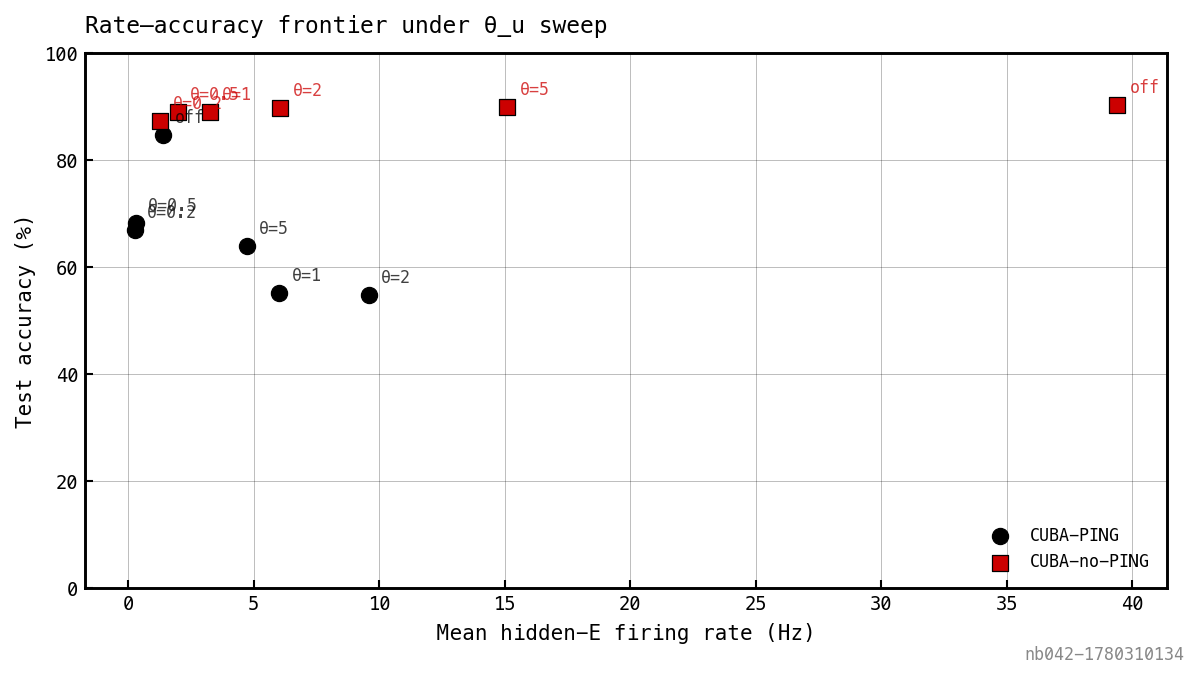
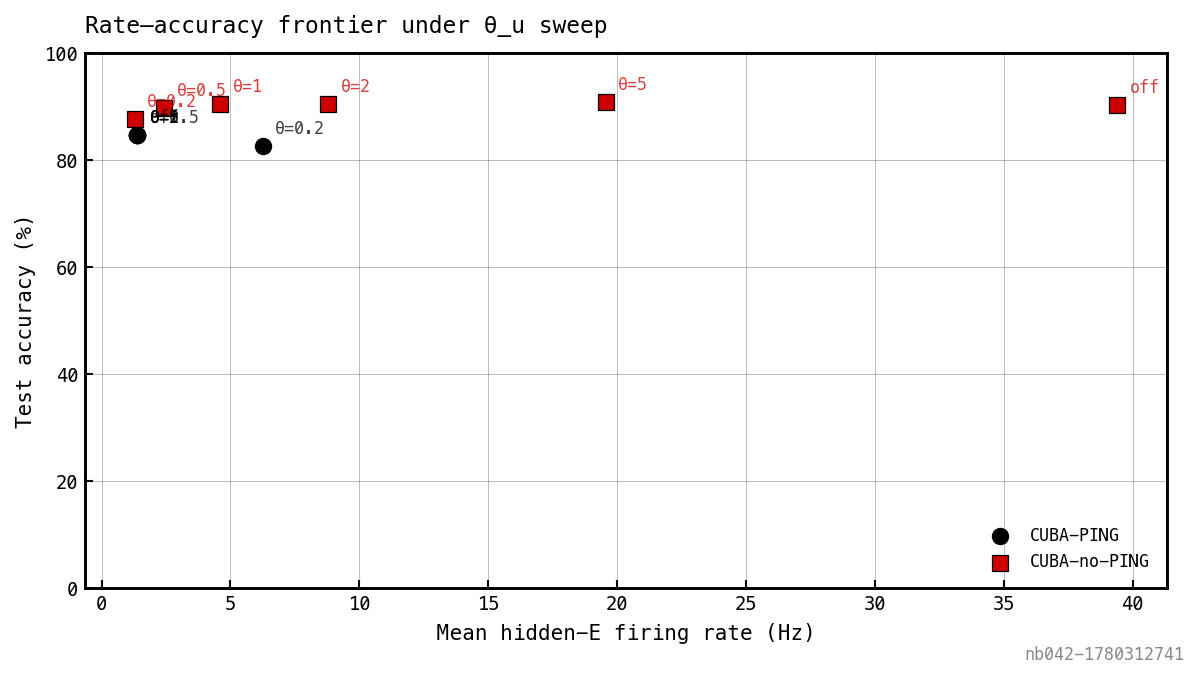
nb042: switch to population-mean penalty — clean nb035-style frontier
The per-neuron penalty (nb035/036 recipe) destabilises PING in the
instant-synapse CUBA family because PING's selective code concentrates
all the signal in the top 1% of cells, and the per-neuron formulation
preferentially crushes them. Population-mean penalty distributes
pressure uniformly and lets the architectural floor coexist with the
explicit knob.

New CLI flag --fr-reg-mode {per-neuron, population} (per-neuron is
default to preserve nb035/036 behaviour); nb042 sets population.

Modal A100 sweep, 12 cells × 40 epochs, 19 min wall-clock, ~$5.30:

PING:
- θ_u ∈ {off, 5, 2, 1, 0.5}: all 84.7% / 1.37 Hz / 39.7 Hz I (bit-
  identical — penalty term is zero, since pop mean 0.27 spk/trial sits
  below all five thresholds)
- θ_u = 0.2: 82.6% / 6.25 Hz (penalty engages below the natural floor,
  settles at a higher-rate equilibrium with a small accuracy cost)

no-PING:
- 30× rate compression (39 → 1.28 Hz) for 2.6 pp accuracy (90.4 → 87.8%)
- Smooth monotone frontier, no divergence

Reproduces the nb035 Figure 5 picture exactly: the two knobs are
substitutes, PING's architectural floor is a hard wall, the penalty
walks no-PING onto the same operating point.

mdx restructured: clean nb035-style story leads, per-neuron diagnostic
moved to a "fr-reg formulation" appendix subsection at the end.

diff --git a/src/pinglab/cli/train.py b/src/pinglab/cli/train.py
@@ -197,6 +197,7 @@ def train(
     readout_mode="rate",
     fr_reg_upper_theta=0.0,
     fr_reg_upper_strength=0.0,
+    fr_reg_mode="per-neuron",
     trainable_w_ee=False,
     tbptt_window=None,
 ):
@@ -577,12 +578,25 @@ def train(
             ) is not None:
                 reg = 0.0
                 for sc in net.last_spike_counts:
-                    mean_z = sc.mean(dim=0)
-                    reg = (
-                        reg
-                        + fr_reg_upper_strength
-                        * (torch.relu(mean_z - fr_reg_upper_theta) ** 2).sum()
-                    )
+                    if fr_reg_mode == "population":
+                        # Single scalar penalty on the grand mean across batch
+                        # and neurons; scale by n_neurons so s_u retains its
+                        # per-neuron-recipe magnitude when all cells overshoot.
+                        pop_mean = sc.mean()
+                        n_neurons = sc.shape[-1]
+                        reg = (
+                            reg
+                            + fr_reg_upper_strength
+                            * n_neurons
+                            * torch.relu(pop_mean - fr_reg_upper_theta) ** 2
+                        )
+                    else:
+                        mean_z = sc.mean(dim=0)
+                        reg = (
+                            reg
+                            + fr_reg_upper_strength
+                            * (torch.relu(mean_z - fr_reg_upper_theta) ** 2).sum()
+                        )
                 loss = loss + reg
             opt.zero_grad()
             loss.backward()

diff --git a/src/pinglab/cli/__main__.py b/src/pinglab/cli/__main__.py
@@ -833,6 +833,20 @@ For the underlying theory of --v-grad-dampen see /articles/art006/.
         "rate regulariser (default 0 = off). "
         "Cramer et al.: 0.06.",
     )
+    train_parser.add_argument(
+        "--fr-reg-mode",
+        type=str,
+        default="per-neuron",
+        choices=["per-neuron", "population"],
+        help="Firing-rate regulariser pooling. 'per-neuron' "
+        "(default) computes relu(<z_i> - θ_u)² for each neuron "
+        "i and sums — concentrates pressure on the highest-firing "
+        "cells (Cramer recipe; same as nb035/036). 'population' "
+        "uses a single scalar relu(<z>_pop - θ_u)² where <z>_pop "
+        "is the grand mean across batch and neurons, then scaled "
+        "by n_neurons to keep s_u's effective magnitude comparable. "
+        "Distributes pressure uniformly across cells.",
+    )
 
     # -- infer subcommand --
     infer_parser = subparsers.add_parser(
@@ -1234,6 +1248,7 @@ if __name__ == "__main__":
             readout_mode=args.readout_mode,
             fr_reg_upper_theta=args.fr_reg_upper_theta,
             fr_reg_upper_strength=args.fr_reg_upper_strength,
+            fr_reg_mode=args.fr_reg_mode,
             trainable_w_ee=args.trainable_w_ee,
             tbptt_window=args.tbptt_window,
         )

diff --git a/src/pinglab/notebooks/nb042.py b/src/pinglab/notebooks/nb042.py
@@ -77,6 +77,12 @@ EPOCHS_OVERRIDE: int | None = 40
 # Same grid as nb035/036 for cross-comparison.
 THETA_U_GRID: list[float | None] = [None, 5.0, 2.0, 1.0, 0.5, 0.2]
 FR_STRENGTH_UPPER: float = 1e-3
+# Population-mean penalty (not per-neuron). The per-neuron formulation
+# concentrates on the high-firing tail and crushes PING's selective
+# code; the population formulation distributes pressure uniformly across
+# all cells and lets the I-loop's architectural floor coexist with the
+# explicit penalty. See nb042 mdx Findings.
+FR_REG_MODE: str = "population"
 
 ARMS = ("ping", "noping")
 MODEL_FOR_ARM = {"ping": "cuba-ping", "noping": "cuba-noping"}
@@ -134,6 +140,7 @@ def build_oscilloscope_args(
         args += [
             "--fr-reg-upper-theta", str(theta_u),
             "--fr-reg-upper-strength", str(FR_STRENGTH_UPPER),
+            "--fr-reg-mode", FR_REG_MODE,
         ]
     return args
 
@@ -351,6 +358,7 @@ def main() -> None:
             "batch_size": BATCH_SIZE, "lr": LR, "seed": SEED,
             "theta_u_grid": [t for t in THETA_U_GRID],
             "fr_strength_upper": FR_STRENGTH_UPPER,
+            "fr_reg_mode": FR_REG_MODE,
             "tbptt_window": TBPTT_WINDOW,
         },
         "cells": rows,